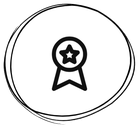
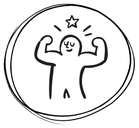
Faixa de navegação: 6 por linha, ícones só no traço (preto nos temas claros, branco nos escuros), ícones de Características e Con/Prá do projeto
Claude-Session: https://claude.ai/code/session_01Ac6kjSfeh85yuidM7EbJvf

diff --git a/public/index.html b/public/index.html
@@ -381,7 +381,7 @@
   .fnav-sentinela{ height:1px; margin:0; }
   .fnav{
     position:sticky; top:0; z-index:40;
-    display:grid; grid-template-columns:repeat(7, minmax(0,1fr)); gap:8px;
+    display:grid; grid-template-columns:repeat(6, minmax(0,1fr)); gap:8px;
     padding:10px; margin:0 0 16px;
     background:var(--surface); border:1px solid var(--border); border-radius:var(--radius, 10px);
     box-shadow:var(--shadow);
@@ -401,9 +401,12 @@
     will-change:transform;
   }
   .fnav-ico{ display:flex; align-items:center; justify-content:center; height:58px; }
-  .fnav-img{ height:58px; width:auto; display:block; pointer-events:none; user-select:none; }
+  .fnav-img{ display:block; height:58px; aspect-ratio:387/355; pointer-events:none; user-select:none;
+    background-color:var(--fnav-tinta, var(--ink));
+    -webkit-mask-size:contain; mask-size:contain; -webkit-mask-repeat:no-repeat; mask-repeat:no-repeat; -webkit-mask-position:center; mask-position:center; }
+  @media (forced-colors: active){ .fnav-img{ forced-color-adjust:none; background-color:CanvasText; } }
   .fnav-rot{ display:-webkit-box; -webkit-box-orient:vertical; -webkit-line-clamp:2; max-width:100%; overflow:hidden; }
-  .fnav.grudada .fnav-casa{ min-height:0; flex-direction:row; gap:6px; padding:4px 6px; font-size:11.5px; }
+  .fnav.grudada .fnav-casa{ min-height:0; flex-direction:row; gap:5px; padding:4px 5px; font-size:11px; }
   .fnav.grudada .fnav-ico, .fnav.grudada .fnav-img{ height:34px; }
   .fnav-casa.atual{ border-color:var(--camp-color, var(--accent)); box-shadow:inset 0 -3px 0 var(--camp-color, var(--accent)); }
   .fnav-casa.fechada .fnav-rot::after{ content:" ▸"; color:var(--ink-muted); font-weight:500; }
@@ -3336,10 +3339,26 @@
   // Clique (ou toque) rola até a seção e abre se estiver minimizada. No
   // computador, a casa sob o mouse cresce com efeito 3D e as vizinhas crescem
   // um pouco menos (desligado em "Animações reduzidas").
-  var FNAV_COLS = 7;
-  // Ícones das abas (icones/aba_*.png): traço preto dentro de um círculo
-  // desenhado à mão, com fundo branco, então aparecem em qualquer tema.
-  function fnavIco(nome){ return '<img class="fnav-img" src="icones/aba_'+nome+'.png" alt="" draggable="false">'; }
+  var FNAV_COLS = 6;
+  // Ícones das abas: só o traço (icones/aba_*_traco.png, sem fundo), usado como
+  // máscara; a cor vem de --fnav-tinta: preto nos temas claros, branco nos escuros
+  // (ver fnavAtualizarTinta). As versões com disco branco (aba_*.png) ficam guardadas.
+  function fnavIco(nome){ var u = 'url(icones/aba_'+nome+'_traco.png)'; return '<span class="fnav-img" style="-webkit-mask-image:'+u+';mask-image:'+u+'" aria-hidden="true"></span>'; }
+  function fnavAtualizarTinta(){
+    try{
+      var raiz = document.documentElement;
+      var v = getComputedStyle(raiz).getPropertyValue("--surface-2").trim();
+      var r, g, b, m;
+      if((m = v.match(/^#([0-9a-f]{3}|[0-9a-f]{6})$/i))){
+        var h = m[1].length === 3 ? m[1].replace(/./g, "$&$&") : m[1];
+        r = parseInt(h.slice(0,2),16); g = parseInt(h.slice(2,4),16); b = parseInt(h.slice(4,6),16);
+      } else if((m = v.match(/rgba?\(\s*(\d+)[ ,]+(\d+)[ ,]+(\d+)/))){ r = +m[1]; g = +m[2]; b = +m[3]; }
+      else return;
+      var lum = (0.2126*r + 0.7152*g + 0.0722*b) / 255;
+      raiz.style.setProperty("--fnav-tinta", lum < 0.5 ? "#ffffff" : "#111111");
+    }catch(_){}
+  }
+  try{ window.matchMedia("(prefers-color-scheme: dark)").addEventListener("change", function(){ setTimeout(fnavAtualizarTinta, 0); }); }catch(_){}
   function fichaNavCasas(c){
     var casas = [
       ["instintos", "Instintos", fnavIco("instintos")],
@@ -3389,6 +3408,7 @@
     if(fnavScroll){ window.removeEventListener("scroll", fnavScroll); fnavScroll = null; }
     var nav = app.querySelector(".fnav");
     if(!nav) return;
+    fnavAtualizarTinta();
     var casas = Array.prototype.slice.call(nav.querySelectorAll(".fnav-casa"));
     nav.style.setProperty("--fnav-n", casas.length);
     nav.style.setProperty("--fnav-meia", Math.ceil(casas.length / 2));
@@ -3542,6 +3562,7 @@
       if(v === ajustePadrao(a[0])) raiz.removeAttribute("data-"+a[0]); else raiz.setAttribute("data-"+a[0], v);
     });
     aplicarCorAcampamento();
+    if(typeof fnavAtualizarTinta === "function") fnavAtualizarTinta();
   }
   function animacoesReduzidas(){ return document.documentElement.getAttribute("data-anim") === "reduzidas"; }
   function montarAparencia(){
